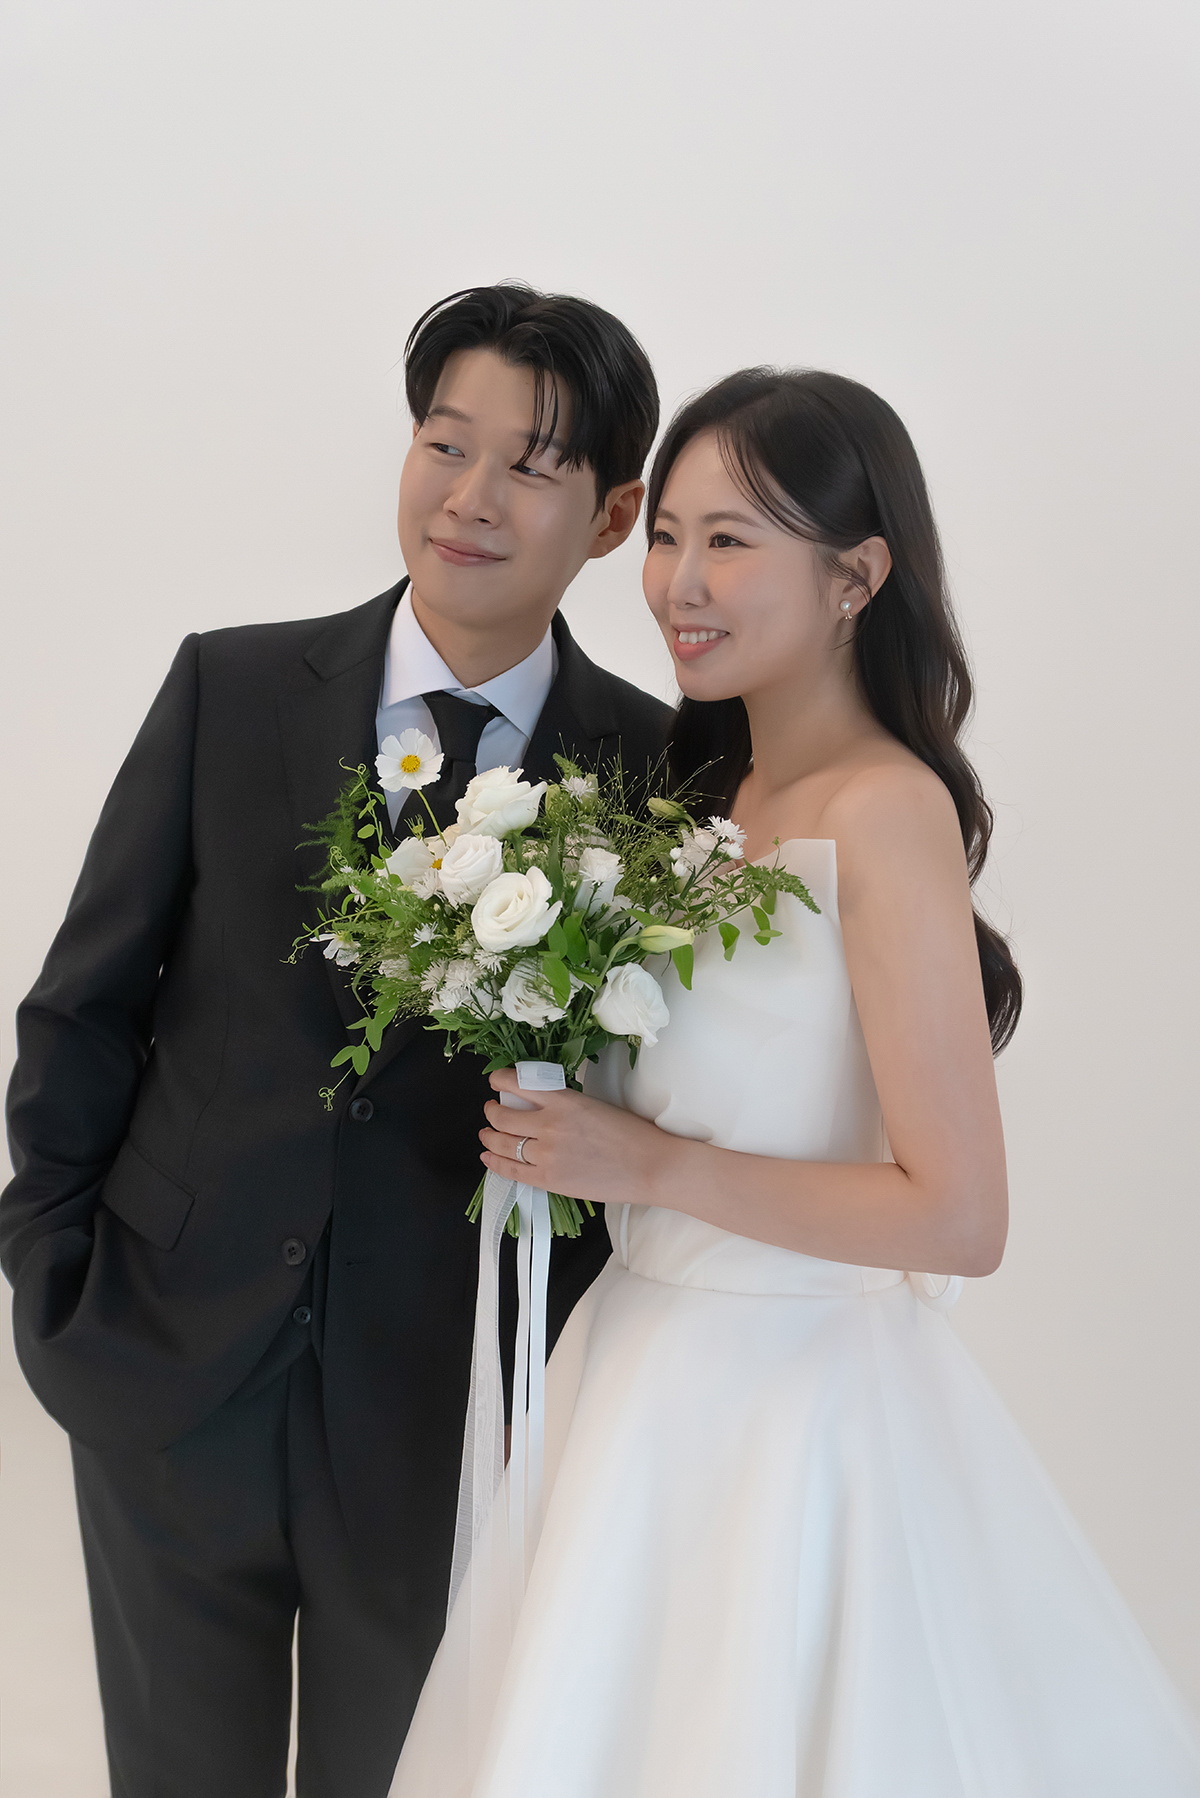
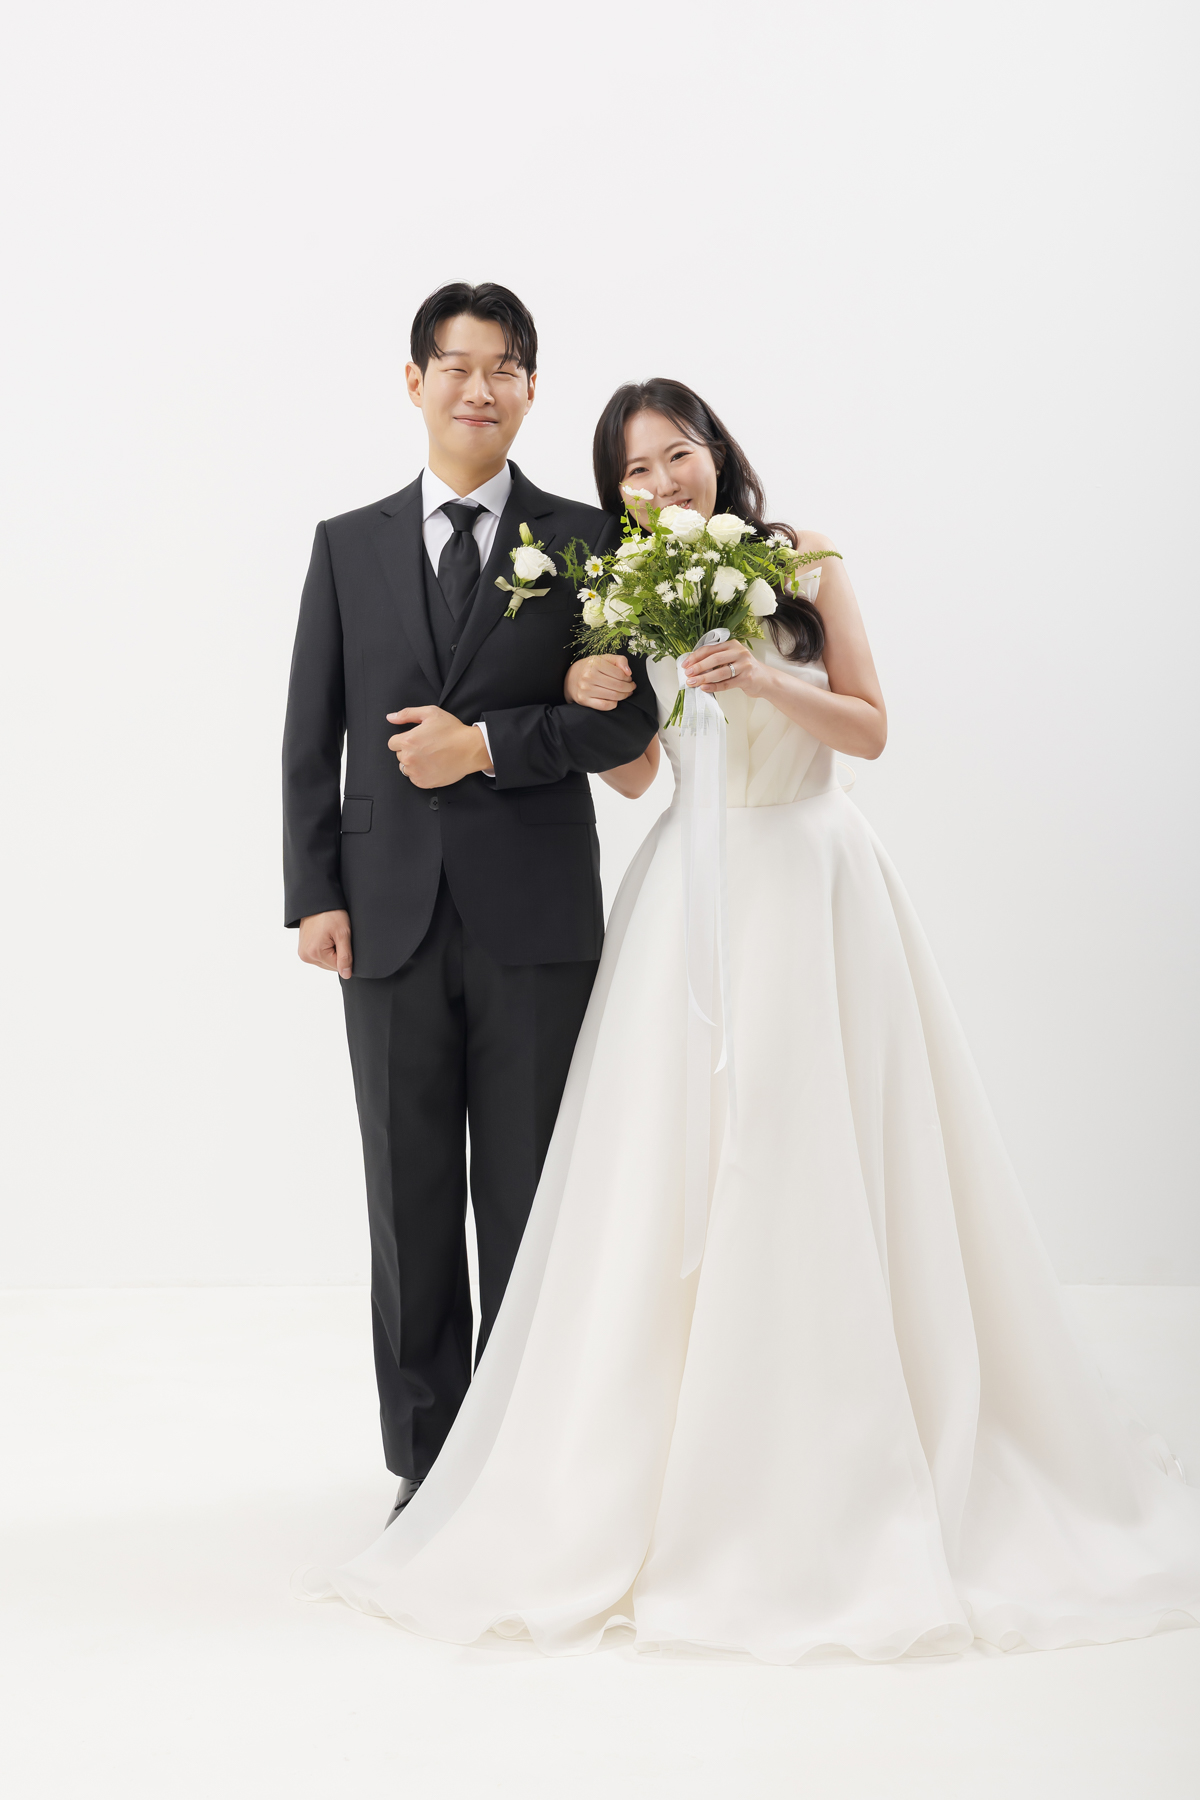
사진 추가

diff --git a/src/components/Gallery.tsx b/src/components/Gallery.tsx
@@ -13,7 +13,7 @@ export default function Gallery() {
 
   // Define base images
   const baseImages = useMemo(() => {
-    const sample_sources = Array.from({ length: 9 }, (_, i) => ({
+    const sample_sources = Array.from({ length: 8 }, (_, i) => ({
       src: getAssetPath(`/images/gallery/G${String(i + 1).padStart(2, '0')}.jpg`),
       alt: `Wedding Photo ${i + 1}`,
     }));
